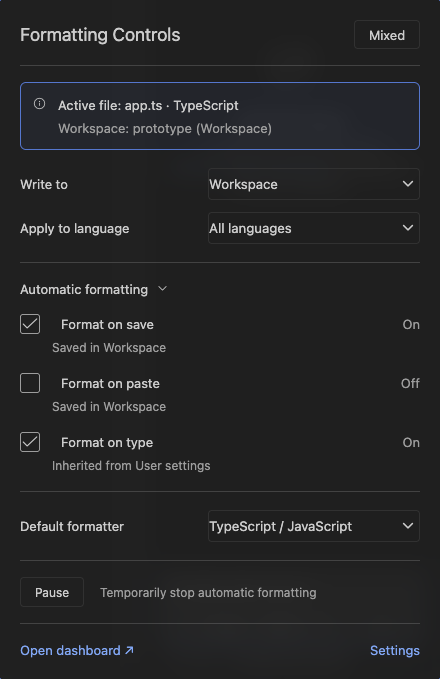
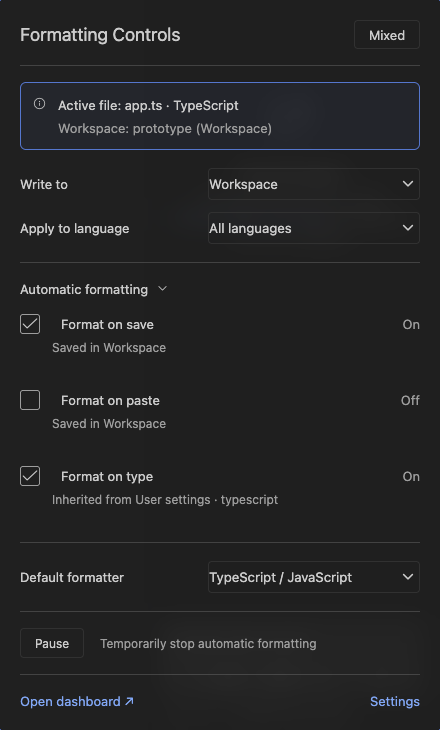
fix(prototype): keep override source notes from moving the card

diff --git a/prototype/vscode/formattingControlsCard.ts b/prototype/vscode/formattingControlsCard.ts
@@ -37,6 +37,9 @@ type UserAction = CoreAction extends infer T
 
 /** An interactive workbench hover; this is intentionally outside the extension API. */
 export class FormattingControlsCard extends Disposable {
+	private static nextIdentifier = 0;
+	private readonly identifier =
+		`kira-formatting-card-${FormattingControlsCard.nextIdentifier++}`;
 	readonly element = $('.kira-formatting-card');
 	private readonly badge = $('span.kira-formatting-state');
 	private readonly file = $('span.kira-formatting-file');
@@ -139,7 +142,7 @@ export class FormattingControlsCard extends Disposable {
 				this.renderDisclosure();
 			}),
 		);
-		for (const flag of initial.flags) {
+		for (const [index, flag] of initial.flags.entries()) {
 			const row = this.triggers.appendChild($('div.kira-formatting-trigger'));
 			const label = row.appendChild($('div.kira-formatting-trigger-label'));
 			const checkbox = this._register(
@@ -178,6 +181,13 @@ export class FormattingControlsCard extends Disposable {
 			);
 			const effective = row.appendChild($('span.kira-formatting-effective'));
 			const source = row.appendChild($('div.kira-formatting-source'));
+			source.id = `${this.identifier}-source-${index}`;
+			checkbox.domNode.setAttribute('aria-describedby', source.id);
+			this._register(
+				this.hoverService.setupDelayedHover(source, () => ({
+					content: this.state.flags[index].source,
+				})),
+			);
 			this.rows.push({ checkbox, source, effective });
 		}
 		const formatter = this.element.appendChild(

diff --git a/test/integration/core-prototype.ts b/test/integration/core-prototype.ts
@@ -47,6 +47,7 @@ export async function run(): Promise<void> {
   await write(workspace, "editor.formatOnSave", true);
   await write(workspace, "editor.formatOnPaste", false);
   await write(user, "editor.formatOnType", true);
+  await write({ ...user, language: "typescript" }, "editor.formatOnType", true);
   await write(workspace, "editor.codeActionsOnSave", {
     "source.fixAll": "explicit",
   });

diff --git a/prototype/vscode/formattingControls.css b/prototype/vscode/formattingControls.css
@@ -148,7 +148,9 @@
 .kira-formatting-card .kira-formatting-source {
 	grid-column: 1 / -1;
 	margin-left: var(--vscode-spacing-size320);
-	min-height: 16px;
+	height: var(--vscode-spacing-size360);
+	line-height: 18px;
+	overflow: hidden;
 	font-size: var(--vscode-fontSize-label1);
 }
 .kira-formatting-card .kira-formatting-formatter .kira-formatting-select-row {

diff --git a/prototype/vscode/README.md b/prototype/vscode/README.md
@@ -12,6 +12,7 @@ This implements the approved Formatting Controls card inside a custom VS Code bu
 - Blue outlined active-file/language/workspace context; multi-root workspaces also identify the active folder. The relative path is available on hover.
 - Inline native dropdowns for User/Workspace/active workspace folder, registered language rules and default formatter. macOS uses native menus; other platforms use VS Code's SelectBox implementation. No QuickPick is used for those dropdowns.
 - Real checkboxes for Save, Paste and Type, effective On/Off text, accurate saved/inherited/override sources and a collapsible section. Checkboxes edit the selected scope's value; the effective state can differ when another scope wins.
+- Source notes reserve two lines so adding/removing an override explanation does not move the card. Full notes remain available through native hover and checkbox descriptions for screen readers.
 - Reviewed formatting-only Pause/Resume, preserving save actions and newer edits. Pause is restricted to workspace/folder scopes. Its existing JSON preview and confirmation intentionally open before settings are written.
 - Separate Open dashboard and Settings footer actions. The approved app icon remains in the Extensions listing only.
 
